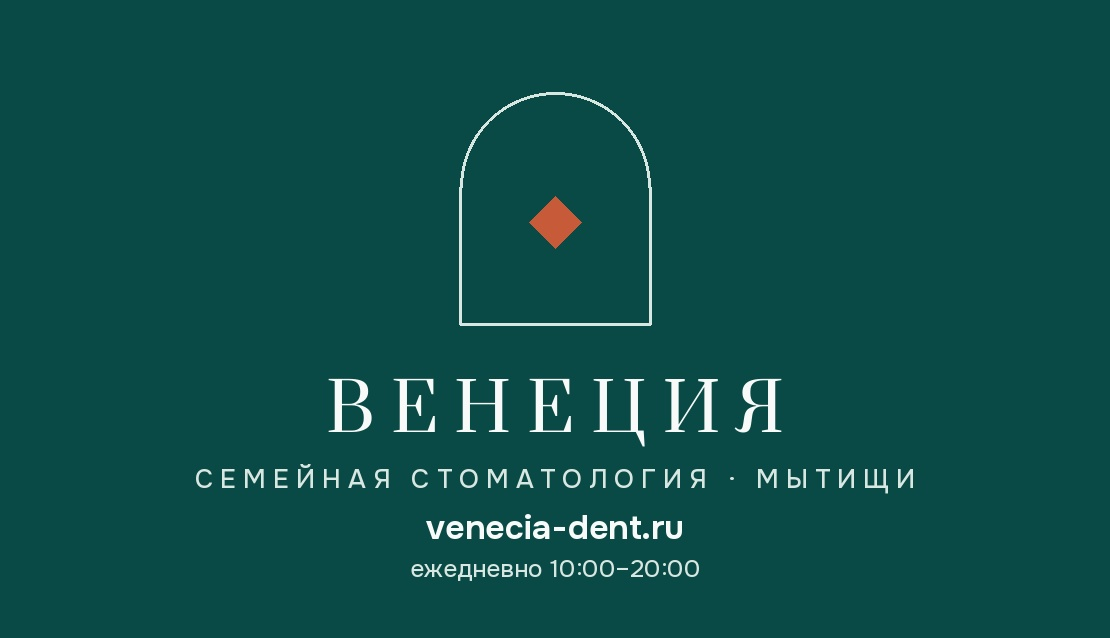
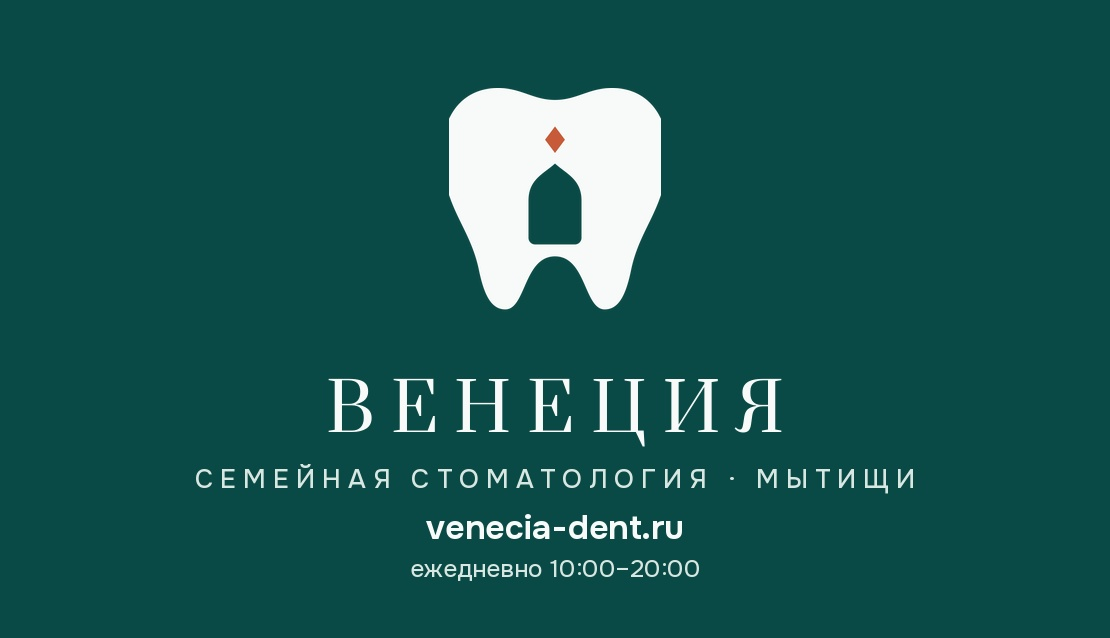
Визитки: на обороте подлинный знак клиники (зуб с аркой) вместо условного медальона

Changed region(s): [[0.3982, 0.1191, 0.6126, 0.5361]]

diff --git a/_materials/vizitki/build-cards.py b/_materials/vizitki/build-cards.py
@@ -81,14 +81,13 @@ def back(out):
     cx = W / 2
     ALAB = (247, 250, 248)
 
-    # тонкая арка-медальон с ромбом внутри
-    aw, ah = 190, 232
-    ax, ay = cx - aw / 2, 92
-    d.arc([ax, ay, ax + aw, ay + aw], 180, 360, fill=TINT, width=3)
-    d.line([ax, ay + aw / 2, ax, ay + ah], fill=TINT, width=3)
-    d.line([ax + aw, ay + aw / 2, ax + aw, ay + ah], fill=TINT, width=3)
-    d.line([ax, ay + ah, ax + aw, ay + ah], fill=TINT, width=3)
-    diamond(d, cx, ay + ah / 2 + 14, 26, TERRA)
+    # подлинный знак клиники: белый зуб с окном-аркой + терракотовый фонарик
+    mark = Image.open(os.path.join(HERE, 'logo-white-mark.png')).convert('RGBA')
+    mh = 236
+    mw = round(mark.width * mh / mark.height)
+    mark = mark.resize((mw, mh), Image.LANCZOS)
+    ay, ah = 88, 236
+    im.paste(mark, (round(cx - mw / 2), ay), mark)
 
     ctext(d, cx, ay + ah + 42, 'ВЕНЕЦИЯ', prata(66), ALAB, ls=16)
     ctext(d, cx, ay + ah + 138, 'СЕМЕЙНАЯ СТОМАТОЛОГИЯ · МЫТИЩИ', onest(26, 500), TINT, ls=7)
